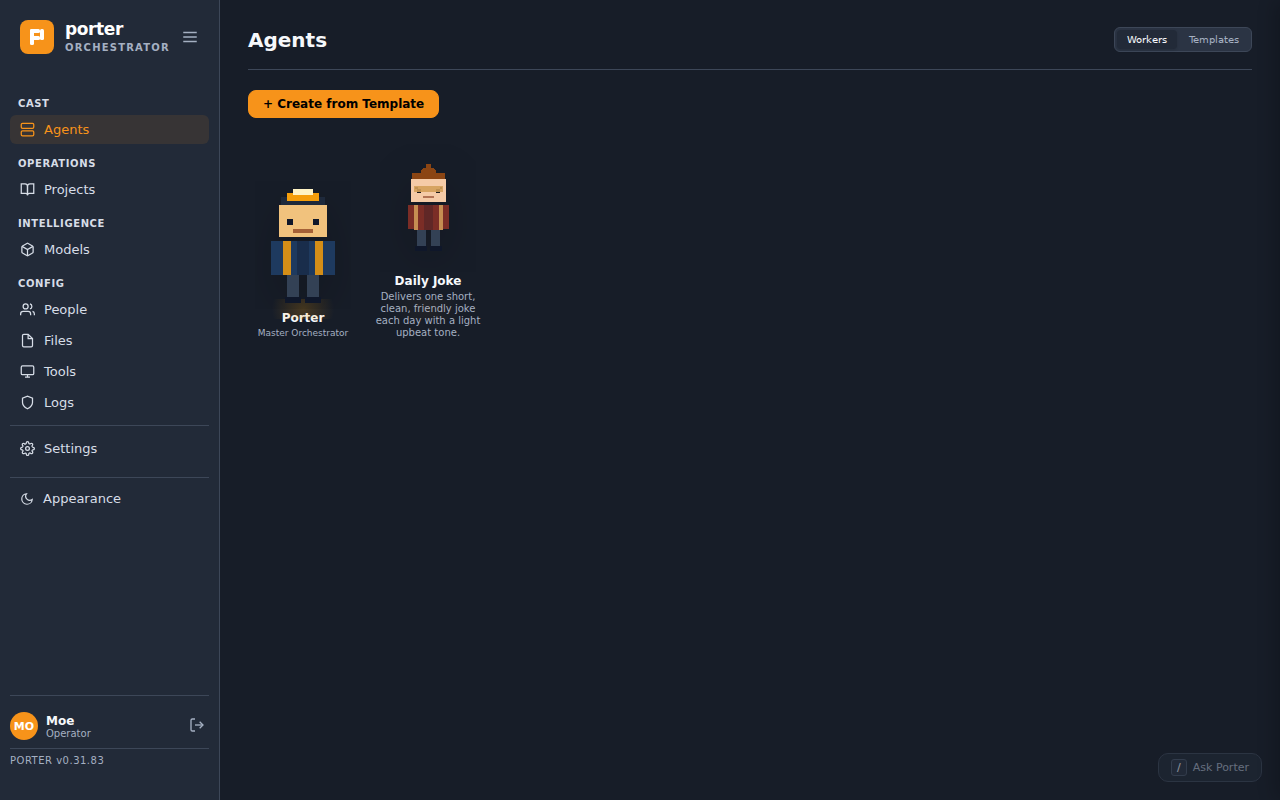
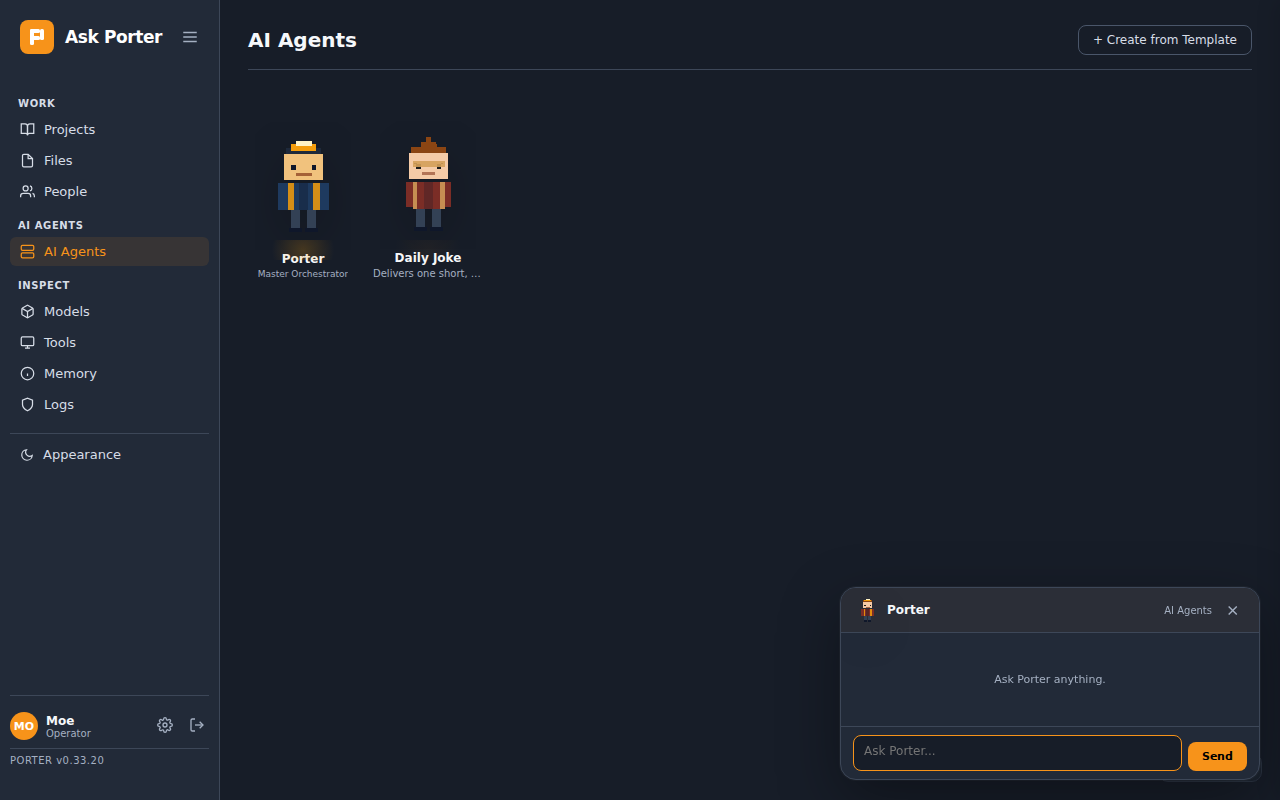
v0.33.21 — Chat-driven projects: chat at top, full context injection
Projects are now chat-first: Porter chat moves to the top of the project
detail page, with project data (tasks, team, files, milestones) displayed
below as a dashboard. Greetings are contextual — new projects get setup
guidance, existing projects get action prompts. Client-side prompt now
sends full project state (type, status, dates, milestones, workers, links)
alongside the server-side context injection.

diff --git a/porter.py b/porter.py
@@ -1,5 +1,5 @@
 #!/usr/bin/env python3
-"""Porter v0.33.20 — Drag-drop: CRM company detail"""
+"""Porter v0.33.21 — Chat-driven projects"""
 
 
 import email
@@ -13608,6 +13608,20 @@ body.sidebar-collapsed .loc { padding: 9px 0; justify-content: center; }
   border-color:color-mix(in srgb,#f59e0b 34%, var(--border));
   box-shadow:0 0 0 2px color-mix(in srgb,#f59e0b 15%, transparent);
 }
+.proj-chat-top {
+  border:1px solid var(--border); border-radius:12px; background:var(--surface);
+  padding:12px 14px; margin-bottom:16px;
+}
+.proj-chat-thread {
+  min-height:80px; max-height:320px; overflow-y:auto; padding:0 2px 8px;
+  scroll-behavior:smooth;
+}
+.proj-chat-thread:empty::before {
+  content:''; display:none;
+}
+.pd-chat-empty {
+  text-align:center; padding:16px 12px; font-size:12px; color:var(--text3); line-height:1.6;
+}
 .pd-chat-drop-zone {
   margin:0 0 10px;
   padding:20px 16px;
@@ -15312,7 +15326,7 @@ input[type="number"].settings-input { min-width: 60px; }
     <a href="#" onclick="openSettings('profile');return false" style="color:var(--text3);flex-shrink:0;padding:4px;border-radius:4px;transition:color .15s" onmouseover="this.style.color='var(--text)'" onmouseout="this.style.color='var(--text3)'" title="Settings"><svg width="16" height="16" viewBox="0 0 24 24" fill="none" stroke="currentColor" stroke-width="2"><circle cx="12" cy="12" r="3"/><path d="M19.4 15a1.65 1.65 0 00.33 1.82l.06.06a2 2 0 010 2.83 2 2 0 01-2.83 0l-.06-.06a1.65 1.65 0 00-1.82-.33 1.65 1.65 0 00-1 1.51V21a2 2 0 01-4 0v-.09A1.65 1.65 0 009 19.4a1.65 1.65 0 00-1.82.33l-.06.06a2 2 0 01-2.83 0 2 2 0 010-2.83l.06-.06A1.65 1.65 0 004.68 15a1.65 1.65 0 00-1.51-1H3a2 2 0 010-4h.09A1.65 1.65 0 004.6 9a1.65 1.65 0 00-.33-1.82l-.06-.06a2 2 0 010-2.83 2 2 0 012.83 0l.06.06A1.65 1.65 0 009 4.68a1.65 1.65 0 001-1.51V3a2 2 0 014 0v.09a1.65 1.65 0 001 1.51 1.65 1.65 0 001.82-.33l.06-.06a2 2 0 012.83 0 2 2 0 010 2.83l-.06.06A1.65 1.65 0 0019.4 9a1.65 1.65 0 001.51 1H21a2 2 0 010 4h-.09a1.65 1.65 0 00-1.51 1z"/></svg></a>
     <a href="#" onclick="doLogout();return false" style="color:var(--text3);flex-shrink:0;padding:4px;border-radius:4px;transition:color .15s" onmouseover="this.style.color='var(--text)'" onmouseout="this.style.color='var(--text3)'" title="Sign out"><svg width="16" height="16" viewBox="0 0 24 24" fill="none" stroke="currentColor" stroke-width="2"><path d="M9 21H5a2 2 0 01-2-2V5a2 2 0 012-2h4"/><polyline points="16 17 21 12 16 7"/><line x1="21" y1="12" x2="9" y2="12"/></svg></a>
   </div>
-  <div style="font-size:10px;color:var(--text3);padding:6px 0;letter-spacing:0.5px;border-top:1px solid var(--border)">PORTER v0.33.20</div>
+  <div style="font-size:10px;color:var(--text3);padding:6px 0;letter-spacing:0.5px;border-top:1px solid var(--border)">PORTER v0.33.21</div>
   </div>
 </aside>
 
@@ -15776,15 +15790,14 @@ input[type="number"].settings-input { min-width: 60px; }
         </div>
         <div id="proj-detail-actions" style="display:flex;gap:8px;flex-wrap:wrap"></div>
       </div>
-      <div id="proj-detail-tabs" class="agent-detail-tabs project-detail-tabs project-tab-rail"></div>
-      <div id="proj-detail-content" class="agent-detail-content"></div>
-      <div id="proj-cmd-bar" style="border-top:1px solid var(--border);padding:6px 0 2px;margin-top:8px">
-        <div id="proj-chat-thread" style="max-height:200px;overflow-y:auto;padding:0 2px 6px;display:none"></div>
+      <div id="proj-cmd-bar" class="proj-chat-top">
+        <div id="proj-chat-thread" class="proj-chat-thread"></div>
         <div style="display:flex;align-items:flex-end;gap:6px">
-          <textarea id="proj-chat-input" class="pd-chat-input" placeholder="Ask Porter about this project..." rows="1" onkeydown="_projChatKey(event)" oninput="_chatAutoGrow(this)" style="flex:1"></textarea>
+          <textarea id="proj-chat-input" class="pd-chat-input" placeholder="Tell Porter what to do with this project..." rows="1" onkeydown="_projChatKey(event)" oninput="_chatAutoGrow(this)" style="flex:1"></textarea>
           <button class="pd-send-btn" onclick="_projChatSend()" style="flex-shrink:0"><span>Send</span></button>
         </div>
       </div>
+      <div id="proj-detail-content" class="agent-detail-content"></div>
     </div>
   </div>
 
@@ -16431,6 +16444,7 @@ function withLoadTimeout(containerId, loadFn, ms) {
 }
 
 const CHANGELOG = [
+  { ver:'v0.33.21', date:'2026-03-19', notes:['Chat-driven projects: chat at top, project dashboard below, interactive building'] },
   { ver:'v0.33.20', date:'2026-03-19', notes:['Drag-drop: CRM company detail also accepts file drops'] },
   { ver:'v0.33.19', date:'2026-03-19', notes:['Drag-drop everywhere: drop files onto projects, CRM contacts, popup chat'] },
   { ver:'v0.33.18', date:'2026-03-18', notes:['Dead code cleanup: legacy CSS from removed features'] },
@@ -20301,7 +20315,12 @@ async function _renderProjectPage() {
   });
 }
 
-async function _renderProjTabContent() { return _renderProjectPage(); }
+async function _renderProjTabContent() {
+  await _renderProjectPage();
+  // v0.33.21 — Auto-render chat thread with greeting
+  var proj = window._projCurrent;
+  if (proj) _projChatRender(proj.id);
+}
 window._projChatState = window._projChatState || {};
 
 function _projChatGetState(pid) {
@@ -20337,13 +20356,36 @@ function _projChatModelPick(value) {
 }
 
 function _projChatComposePrompt(project, state, userText) {
-  var parts = ['Project: ' + (project.name || 'Untitled')];
-  if (project.description) parts.push('Project brief: ' + project.description);
-  if (project.success_bar) parts.push('Success bar: ' + project.success_bar);
-  var hist = (state.messages || []).filter(function(m) { return m.role === 'user' || m.role === 'assistant'; }).slice(-2);
+  // v0.33.21 — Rich client-side context: everything the user sees
+  var parts = ['Project: ' + (project.name || 'Untitled') + ' [' + (project.status || 'active') + ']'];
+  if (project.type) parts.push('Type: ' + project.type);
+  if (project.objective || project.description) parts.push('Objective: ' + (project.objective || project.description));
+  if (project.success_bar) parts.push('Success: ' + project.success_bar);
+  if (project.start_date) parts.push('Started: ' + project.start_date);
+  if (project.deadline) parts.push('Deadline: ' + project.deadline);
+  var ms = project.milestones || [];
+  if (ms.length) {
+    var msDone = ms.filter(function(m) { return m.done; }).length;
+    parts.push('Milestones: ' + msDone + '/' + ms.length + ' done (' + ms.map(function(m) { return (m.done?'[x]':'[ ]') + ' ' + (m.name||m.title||'?'); }).join(', ') + ')');
+  }
+  var workers = project.assigned_personas || [];
+  if (workers.length) {
+    var wNames = workers.map(function(wid) {
+      var p = (_personas || []).find(function(x) { return x.id === wid; });
+      return p ? p.name : wid.slice(0,8);
+    });
+    parts.push('Workers: ' + wNames.join(', '));
+  }
+  var links = project.links || {};
+  var lp = [];
+  if (links.repo) lp.push('repo');
+  if (links.live_url) lp.push('live');
+  if (links.docs) lp.push('docs');
+  if (lp.length) parts.push('Links: ' + lp.join(', '));
+  var hist = (state.messages || []).filter(function(m) { return m.role === 'user' || m.role === 'assistant'; }).slice(-3);
   if (hist.length) {
     parts.push('Recent conversation:\n' + hist.map(function(m) {
-      return (m.role === 'user' ? 'User: ' : 'Assistant: ') + String(m.content || '').slice(0, 280);
+      return (m.role === 'user' ? 'User: ' : 'Porter: ') + String(m.content || '').slice(0, 280);
     }).join('\n\n'));
   }
   parts.push('New request:\n' + userText);
@@ -20351,12 +20393,21 @@ function _projChatComposePrompt(project, state, userText) {
 }
 
 function _projGreetingCopy(project, state) {
-  var greetings = [
-    "Hi, I'm Porter. Let's move " + (project.name || 'this project') + " forward. What should happen next?",
-    "I'm on " + (project.name || 'this project') + ". I can tighten the plan, create the right worker, or organize the next step.",
-    "Let's run " + (project.name || 'this project') + " cleanly. What should Porter shape first?",
-    "Porter here. Tell me the next move for " + (project.name || 'this project') + " and I'll keep the lane organized."
-  ];
+  var name = project.name || 'this project';
+  var hasContent = (project.milestones || []).length || (project.assigned_personas || []).length || project.objective;
+  if (hasContent) {
+    var greetings = [
+      "What should happen next on " + name + "?",
+      "I'm on " + name + ". Add tasks, assign workers, upload files — just tell me.",
+      name + " is live. What needs to change?"
+    ];
+  } else {
+    var greetings = [
+      "Tell me about " + name + " and I'll set it up — milestones, tasks, workers, files.",
+      "Describe what " + name + " needs to deliver. I'll shape the plan, assign workers, and track progress.",
+      "Let's build " + name + ". Tell me the goal and I'll create the structure."
+    ];
+  }
   var seed = Number(state && state.greetingSeed ? state.greetingSeed : Date.now());
   return greetings[Math.abs(seed) % greetings.length];
 }
@@ -42472,7 +42523,7 @@ class Handler(BaseHTTPRequestHandler):
 
         elif parsed.path == "/api/version":
             # No auth — lightweight version check for auto-reload
-            self.reply_json({"v": "0.33.20"})
+            self.reply_json({"v": "0.33.21"})
         elif parsed.path == "/api/ship/validate":
             if not self.auth_check(redirect=False): return
             import subprocess as _sp
@@ -44968,7 +45019,7 @@ class Handler(BaseHTTPRequestHandler):
             log.info("Client connected to event hub")
             try:
                 # Initial welcome event
-                self.wfile.write(f"data: {json.dumps({'type': 'welcome', 'version': 'v0.33.20'})}\n\n".encode())
+                self.wfile.write(f"data: {json.dumps({'type': 'welcome', 'version': 'v0.33.21'})}\n\n".encode())
                 self.wfile.flush()
 
                 while True:
@@ -52015,7 +52066,7 @@ if __name__ == "__main__":
                    if host_hint else f"ssh -L {PORT}:localhost:{PORT} <your-server>")
     _ensure_backend_config()
     _detect_environment_tools()
-    print(f"\n  Porter v0.33.20 ready (localhost only)")
+    print(f"\n  Porter v0.33.21 ready (localhost only)")
     print(f"  Data dir:    {_DATA_DIR}")
     print(f"  SSH tunnel:  {tunnel_hint}")
     print(f"  Then open:   http://localhost:{PORT}\n")

diff --git a/CLAUDE.md b/CLAUDE.md
@@ -12,7 +12,7 @@ Project-specific rules for Porter development. These supplement the global `~/CL
 - **Service file:** `~/.config/systemd/user/porter.service`
 - **Config:** `porter_config.json` (via `PORTER_DATA_DIR` env var in systemd unit)
 - **Access:** SSH tunnel — `ssh -fN -L 8877:127.0.0.1:8877 lobster@100.85.184.74`
-- **Tests:** `cd /home/lobster/documents/porter/tests && npx playwright test` (28 tests)
+- **Tests:** `cd /home/lobster/documents/porter/tests && npx playwright test` (35 tests)
 
 ### Serve Roots
 `SERVE_DIRS` dict at top of `porter.py` maps label → `Path`: